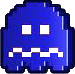
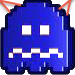
update my game

diff --git a/my_game.rb b/my_game.rb
@@ -1,41 +1,75 @@
 require 'rubygems'
 require 'gosu'
 require 'player'
+require 'star'
+# require 'bullet'
 
 class MyGame < Gosu::Window
   
   def initialize
-    super(300,300,false)
-    @player1 = Player.new(self, 50, 50, (Gosu::Image.new(self, "images/player1_icon.png", true)) )
-    @player2 = Player.new(self, 175, 175, (Gosu::Image.new(self, "images/player2_icon.png", true)) )
-    # @score1 = 0
-    # @score2 = 0
+    super(350,500,false)
+    @player1 = Player.new(self, 50, 50, (Gosu::Image.new(self, "images/atomic_boo.png", true)) )
+    @stars = 3.times.map {Star.new(self)}
+    @running = true
+    @player2 = Player.new(self, 175, 175, (Gosu::Image.new(self, "images/purple_boo.png", true)) )
+    @bg = Gosu::Image.new(self, "images/bg.png")
+    @font = Gosu::Font.new(self, Gosu::default_font_name, 30)
+    @score = 0
+    @highscore = 0
   end
   
   def update
+    if @running
+      @stars.each {|star| star.update}
+      @player1.move_left  if button_down? Gosu::Button::KbLeft
+      @player1.move_right if button_down? Gosu::Button::KbRight
+      @player1.move_up    if button_down? Gosu::Button::KbUp
+      @player1.move_down  if button_down? Gosu::Button::KbDown
+      
+      @player2.move_left  if button_down? Gosu::Button::KbA
+      @player2.move_right if button_down? Gosu::Button::KbD
+      @player2.move_up    if button_down? Gosu::Button::KbW
+      @player2.move_down  if button_down? Gosu::Button::KbS
+      
+     if @player1.hit_by?(@stars) or @player2.hit_by?(@stars)
+        stop_game!
+      end
+      @score += 1
+      @highscore = @score unless @score < @highscore
     
-    @player1.move_left  if button_down? Gosu::Button::KbLeft
-    @player1.move_right if button_down? Gosu::Button::KbRight
-    @player1.move_up    if button_down? Gosu::Button::KbUp
-    @player1.move_down  if button_down? Gosu::Button::KbDown
-    
-    @player2.move_left  if button_down? Gosu::Button::KbA
-    @player2.move_right if button_down? Gosu::Button::KbD
-    @player2.move_up    if button_down? Gosu::Button::KbW
-    @player2.move_down  if button_down? Gosu::Button::KbS
+    else
+      if button_down? Gosu::Button::KbEscape
+        restart_game
+        @score = 0
+      end
+    end
+
 
     
     # @score1 = @score1 + 100 if @player1.die
     # @score2 = @score2 + 100 if @player2.die
     # bullet = @Bullet.new if @player1.shoot
     # @player1.shoot if button_down? Gosu::Button::KbRightShift
-    # @player2.shoot if button_down? Gosu::Button::KbQ
+    # @player2.shoot if button_down? Gosu::Button::Kb
     
   end
   
   def draw
     @player1.draw
+    @stars.each {|star| star.draw}
     @player2.draw
+    @bg.draw(0,0,-3)
+    @font.draw("Score: #{@score}",0,0,0)
+    @font.draw("Highscore: #{@highscore}",0,35,0)
+  end
+  
+  def stop_game!
+    @running = false
+  end
+  
+  def restart_game
+    @running = true
+    @stars.each {|star| star.reset!}
   end
     
     

diff --git a/star.rb b/star.rb
@@ -1,0 +1,39 @@
+class Star
+  
+  def initialize(game_window)
+    @game_window = game_window
+    @x = 0
+    @y = 0
+    @min_speed = 1
+    @max_speed = 10
+    @icon = Gosu::Image.new(@game_window, "images/star.png")
+    @speed = @min_speed + rand(@max_speed - @min_speed)
+  end
+  
+  def update
+    if @y > @game_window.height
+      reset!
+    else
+      @y = @y + @speed
+    end
+  end
+  
+  def draw
+    @icon.draw(@x,@y,2)
+  end
+  
+  def x
+    @x
+  end
+  
+  def y
+    @y
+  end
+  
+  def reset!
+    @y = 0
+    @x = rand(@game_window.width)
+    @speed = @min_speed + rand(@max_speed - @min_speed)
+  end
+  
+end

diff --git a/player.rb b/player.rb
@@ -57,11 +57,10 @@ class Player
   #    bulleticon = @bulleticon.new
   #    @bulleticon.draw(bullet_position)
   #    bullet_position + 10
-  #   end
-
-  def die
-   @x = 50
-   @y = 50
+  # end
+  
+  def hit_by?(stars)
+    stars.any? {|star| Gosu::distance(@x,@y,star.x,star.y) < 50}
   end
    
 end
